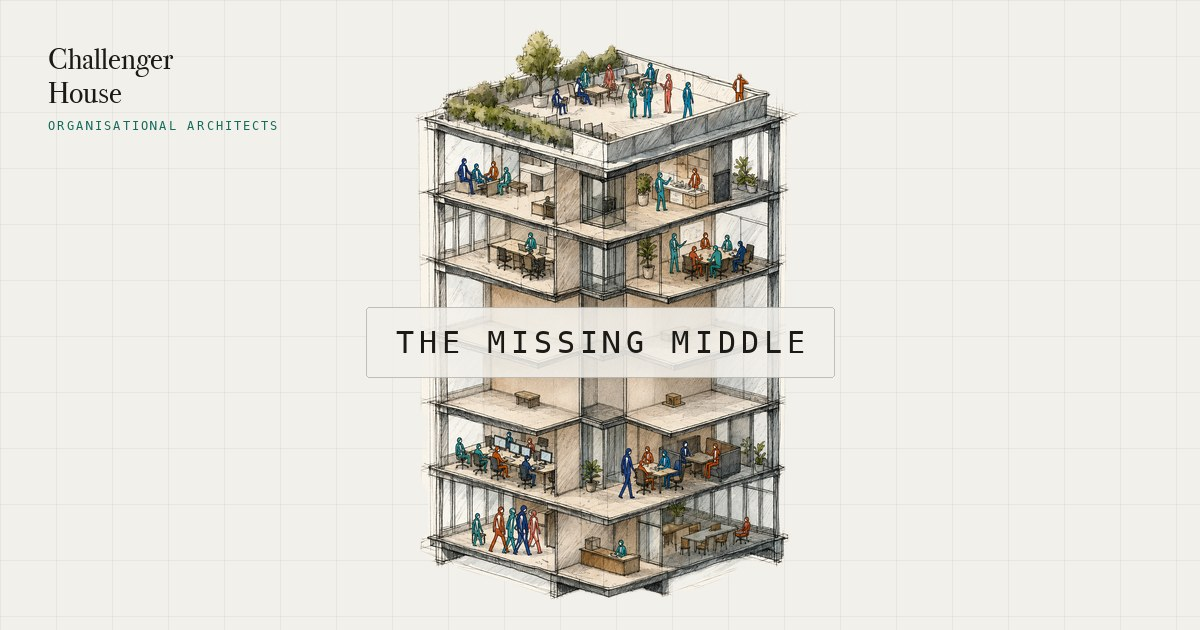
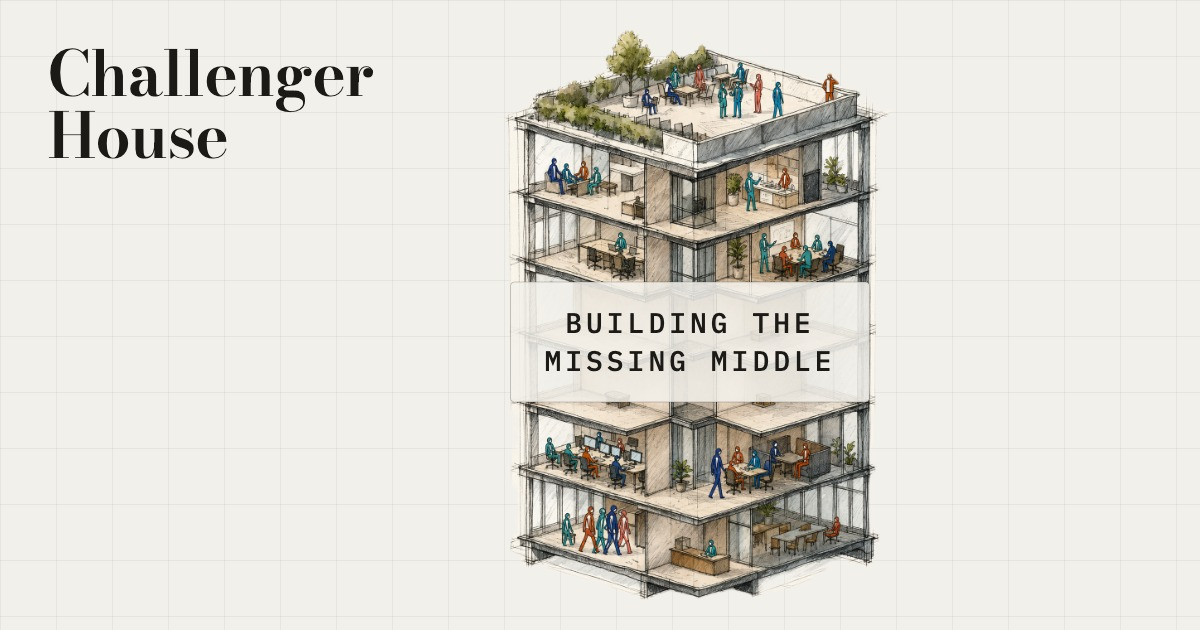
Refine social card: bigger Bodoni Moda wordmark, "Building the missing middle" label, proofread description
- Re-render og:image with the real Bodoni Moda wordmark (bigger), drop the tagline line,
  centre label now reads "BUILDING THE MISSING MIDDLE"
- Update meta/og/twitter description to the proofread copy (formal vs informal organisation)

Changed region(s): [[0.3392, 0.0302, 0.74, 0.9651], [0.0308, 0.0603, 0.3083, 0.2714]]

diff --git a/site/index.html b/site/index.html
@@ -4,13 +4,13 @@
 <meta charset="utf-8">
 <meta name="viewport" content="width=device-width, initial-scale=1">
 <title>Challenger House · Organisational Architects for the AI transition</title>
-<meta name="description" content="AI doesn't transform your organisation, it reveals it. You run two organisations, the one you wrote down and the one that actually gets the work done, and AI only knows the first. Challenger House builds the missing middle between them, starting with one day on your real work.">
+<meta name="description" content="You run two organisations, the formal one you wrote down and the informal one that actually gets the work done. AI only knows the first. Challenger House builds the missing middle between them.">
 <!-- Open Graph / social share preview (WhatsApp, LinkedIn, iMessage, Slack) -->
 <meta property="og:type" content="website">
 <meta property="og:url" content="https://challenger-house.com/">
 <meta property="og:site_name" content="Challenger House">
 <meta property="og:title" content="Challenger House · Organisational Architects for the AI transition">
-<meta property="og:description" content="AI doesn't transform your organisation, it reveals it. You run two organisations, the one you wrote down and the one that actually gets the work done, and AI only knows the first. Challenger House builds the missing middle between them, starting with one day on your real work.">
+<meta property="og:description" content="You run two organisations, the formal one you wrote down and the informal one that actually gets the work done. AI only knows the first. Challenger House builds the missing middle between them.">
 <meta property="og:image" content="https://challenger-house.com/assets/images/og-cover.jpg">
 <meta property="og:image:secure_url" content="https://challenger-house.com/assets/images/og-cover.jpg">
 <meta property="og:image:type" content="image/jpeg">
@@ -19,7 +19,7 @@
 <meta property="og:image:alt" content="A cutaway drawing of an office building full of people, with the empty floors at its centre labelled THE MISSING MIDDLE.">
 <meta name="twitter:card" content="summary_large_image">
 <meta name="twitter:title" content="Challenger House · Organisational Architects for the AI transition">
-<meta name="twitter:description" content="AI doesn't transform your organisation, it reveals it. You run two organisations, the one you wrote down and the one that actually gets the work done, and AI only knows the first. Challenger House builds the missing middle between them, starting with one day on your real work.">
+<meta name="twitter:description" content="You run two organisations, the formal one you wrote down and the informal one that actually gets the work done. AI only knows the first. Challenger House builds the missing middle between them.">
 <link rel="preconnect" href="https://fonts.googleapis.com">
 <link rel="preconnect" href="https://fonts.gstatic.com" crossorigin>
 <link href="https://fonts.googleapis.com/css2?family=Bodoni+Moda:ital,opsz,wght@0,6..96,400..900;1,6..96,400..900&family=IBM+Plex+Mono:ital,wght@0,400;0,500;0,600;1,400&display=swap" rel="stylesheet">
